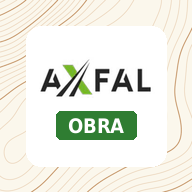
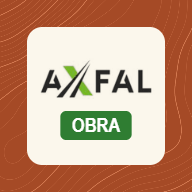
Icono y color teja para distinguirla de la app de personal

diff --git a/index.html b/index.html
@@ -8,7 +8,7 @@
 <link rel="icon" href="icono-192.png">
 <link rel="apple-touch-icon" href="icono-192.png">
 <meta name="mobile-web-app-capable" content="yes">
-<meta name="theme-color" content="#fbf7ec">
+<meta name="theme-color" content="#a54a26">
 <link rel="preconnect" href="https://fonts.googleapis.com">
 <link rel="stylesheet" href="https://fonts.googleapis.com/css2?family=Barlow+Condensed:wght@600;700&family=Barlow:wght@400;500;600;700&display=swap">
 <style>
@@ -427,7 +427,7 @@ https://github.com/nodeca/pako/blob/main/LICENSE
 </script>
 <script src="config.js"></script>
 <script>
-const VERSION = "202611181745";
+const VERSION = "202611181823";
[2 lines of base64/hex data omitted]
 </script>

diff --git a/sw.js b/sw.js
@@ -1,6 +1,6 @@
 // Guarda la app en el móvil para que abra aunque no haya cobertura en la obra.
 // La página y config.js se piden primero a internet (para recibir mejoras) y, si no hay, se usa lo guardado.
-const CACHE = "parte-obra-axfal-202611181745";
+const CACHE = "parte-obra-axfal-202611181823";
 const APP = ["./", "index.html", "config.js", "manifest.webmanifest", "icono-192.png", "icono-512.png"];
 
 self.addEventListener("install", e => {
